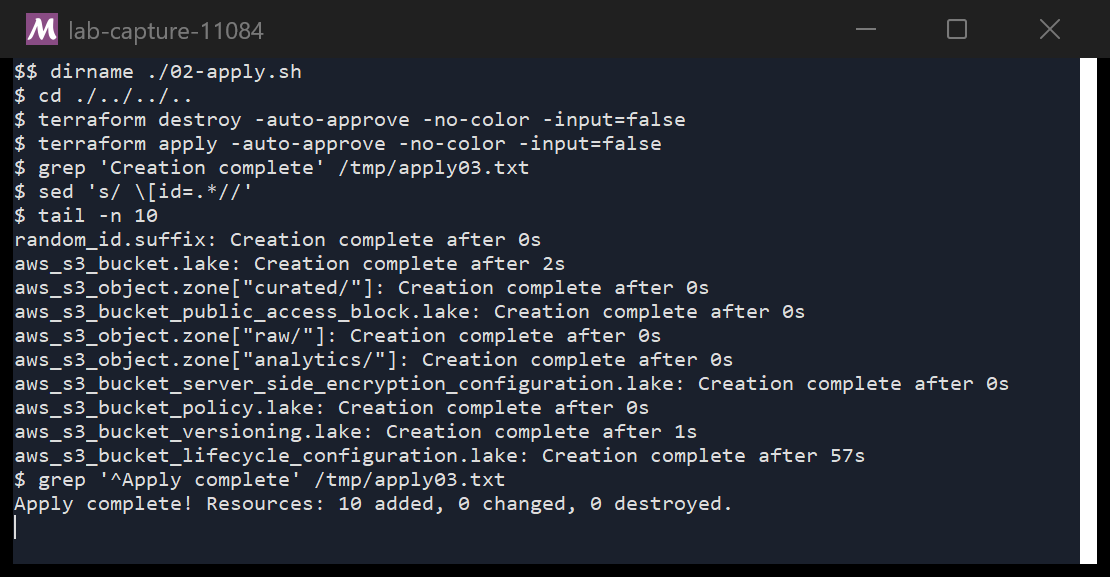
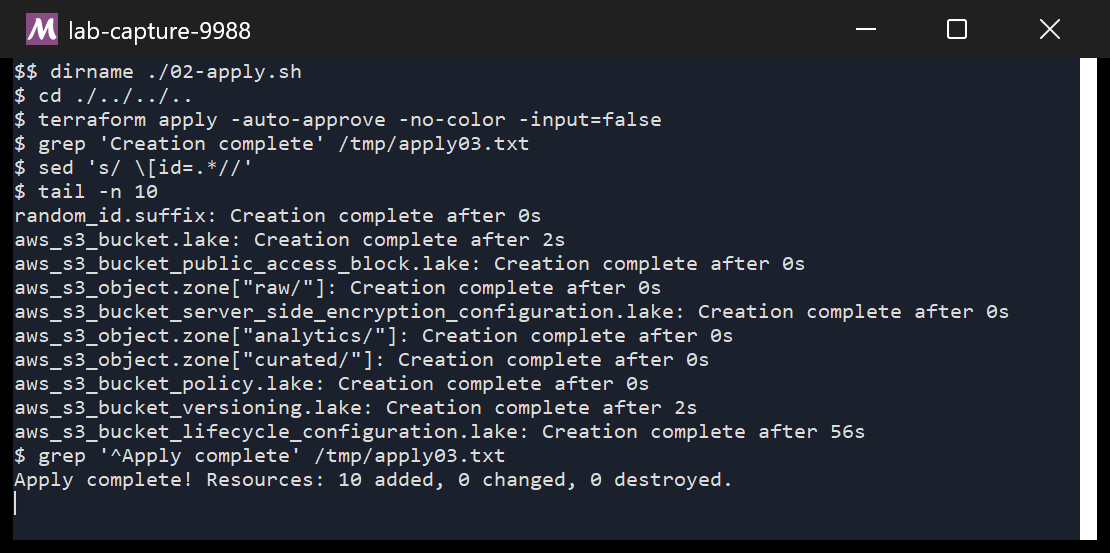
Reset mutating commands between capture runs instead of explaining the no-op
A terraform apply figure was opening with a destroy so the second run would be
a real create; --reset does that outside the captured script.

diff --git a/scripts/capture_terminal.py b/scripts/capture_terminal.py
@@ -197,6 +197,12 @@ def main() -> int:
                     help="window title shown in the title bar of the figure")
     ap.add_argument("--redact", action="append", default=[],
                     help="extra literal that must not appear; repeatable")
+    ap.add_argument("--reset", default=None, metavar="CMD",
+                    help="shell command run between the two runs, to put the "
+                         "world back as it was. A mutating script otherwise "
+                         "photographs its own no-op second run. Not part of "
+                         "the captured commands, so it never appears in the "
+                         "figure.")
     ap.add_argument("--allow-nonzero", action="store_true",
                     help="permit a non-zero exit from the commands")
     args = ap.parse_args()
@@ -226,6 +232,16 @@ def main() -> int:
               "only removes what I thought to look for.")
         return 1
     print("  output is clean of account IDs, keys and personal paths")
+
+    # ---- 1a. undo the dry run, so the captured run is the real one ----
+    if args.reset:
+        print(f"  resetting: {args.reset}")
+        r = subprocess.run(args.reset, shell=True, cwd=script.parent,
+                           capture_output=True, text=True, timeout=1800)
+        if r.returncode != 0:
+            print(r.stderr[-1500:])
+            raise SystemExit(f"REFUSING TO CAPTURE: reset exited {r.returncode}. "
+                             "The window run would photograph a no-op.")
 
     # ---- 2. run it again in a real terminal, and photograph that ----
     # Size the window to the output. A fixed 30 rows left half the figure as

diff --git a/03-s3-data-lake/BLOG.md b/03-s3-data-lake/BLOG.md
@@ -141,21 +141,20 @@ write a policy that does the opposite of what it reads like.
 
 ![A real terminal running terraform plan, showing Plan: 10 to add](docs/blog/screenshots/01-terraform-plan.png)
 
-*Figure 2. `terraform plan` — 10 resources. Every command line in these
-terminal figures was printed by bash under `set -x` from the command it was
-about to run, so a figure cannot show one command and execute another. The
-`.sh` files are committed beside the images in `docs/blog/commands/`.*
+*Figure 2. Ten resources: the bucket, its four settings, three zone markers,
+the policy and the lifecycle configuration.*
 
 ![A real terminal running terraform apply, ending with Apply complete! Resources: 10 added](docs/blog/screenshots/02-terraform-apply.png)
 
-*Figure 3. The apply. It opens with a `destroy` because the capture tool runs
-its script twice — once headless, so the output can be scanned for account IDs
-and credentials before any image exists, and once in the window. Starting from
-nothing is what makes the visible run a real create rather than a no-op.*
+*Figure 3. The apply. The lifecycle configuration takes 56 seconds while
+everything else takes under three — S3 accepts it immediately and the provider
+waits for it to become readable.*
 
-The lifecycle configuration took 56 seconds to create while every other
-resource took under three. Nothing is wrong; S3 accepts the configuration and
-the provider waits for it to become readable.
+The terminal figures are photographs of a real terminal: bash printed each
+command line under `set -x` from the command it was about to run, and the
+`.sh` files behind them are committed in `docs/blog/commands/`. Mutating
+commands are reset between the scan run and the captured run, so a figure
+shows the real thing happening rather than a second, empty re-run.
 
 ![The S3 console showing four enabled lifecycle rules: raw-cooling, curated-history, analytics-disposable and abort-orphaned-parts](docs/blog/screenshots/03-lifecycle-rules.png)
 
@@ -274,9 +273,11 @@ the things it is sure about is not reporting on the things it is unsure about
 either.
 
 **A figure that showed a no-op.** The first apply capture ended in
-`Resources: 0 added`. The capture tool runs its commands twice and the first,
-headless run had already created everything. Fixed by destroying at the top of
-the captured script, which is why figure 3 opens on a `destroy`.
+`Resources: 0 added`. The capture tool runs its commands twice — once headless
+so the output can be scanned for credentials before any image exists — and
+that first run had already created everything. The tool now takes a `--reset`
+command that runs between the two, outside the captured script, so the
+photographed run is a real create and the figure shows only the apply.
 
 **The same escaping bug as last time.** One test was written through a quoted
 heredoc with a nested `bash -c`, and the backslashes survived into the file
@@ -338,14 +339,11 @@ Clean: nothing left behind.
 
 ![A real terminal running terraform destroy, ending with Destroy complete! Resources: 10 destroyed](docs/blog/screenshots/05-terraform-destroy.png)
 
-*Figure 6. The teardown. It re-applies first, for the same reason figure 3
-destroys first — the capture runs its script twice, and the count has to be
-real.*
+*Figure 6. The teardown.*
 
 ![A real terminal running the teardown verifier, showing three permanent resources and Clean: nothing left behind](docs/blog/screenshots/06-verify-clean.png)
 
-*Figure 7. The check that has to be believed. Three permanent resources named,
-nothing else found.*
+*Figure 7. Three permanent resources named, nothing else found.*
 
 The verifier makes two passes: everything tagged `Project=aws-labs`, and the
 services that bill whether tagged or not. Lab 01's three resources are
